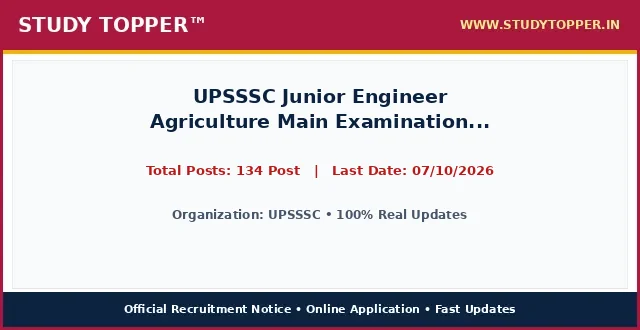
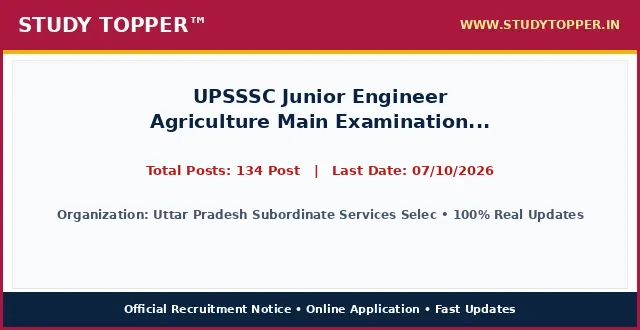
chore(lifecycle): daily auto-sort vacancies and update active dates

Changed region(s): [[0.0938, 0.6364, 0.9375, 0.6667]]

diff --git a/pages/upsssc-j-e-agriculture-august26.html b/pages/upsssc-j-e-agriculture-august26.html
@@ -987,12 +987,12 @@ ul.wp-block-latest-posts a:hover {
 <main class="site-main" id="main">
 <div class="gb-container gb-container-b39c368c">
 <h1 class="gb-headline gb-headline-e52a0102 gb-headline-text" style="font-size: 22px; font-weight: 700; color: #0000cd; text-align: left; margin: 8px 0 4px 0; line-height: 1.3; width: 100%; font-family: '-apple-system, BlinkMacSystemFont, 'Segoe UI', Roboto, 'Helvetica Neue', Arial, sans-serif', Times, serif, Hind, sans-serif;">UPSSSC Junior Engineer Agriculture Main Examination 2026 Apply Online for 134 Post</h1>
-<div class="gb-container gb-container-659bd175"><p style="color: #cd0808; font-weight: 700; font-size: 15px; margin: 2px 0 7px 0; text-align: left; font-family: '-apple-system, BlinkMacSystemFont, 'Segoe UI', Roboto, 'Helvetica Neue', Arial, sans-serif', Times, serif, Hind, sans-serif;">Post Date: August 22, 2026 11:55 AM</p></div>
-<p class="gb-headline gb-headline-550ae316 short_Details gb-headline-text" style="width: 100%; max-width: 100%; font-size: 16.8px; line-height: 1.55; color: #000000; text-align: justify; text-justify: inter-word; margin: 8px 0 14px 0; display: block; font-family: '-apple-system, BlinkMacSystemFont, 'Segoe UI', Roboto, 'Helvetica Neue', Arial, sans-serif', Times, serif, Hind, sans-serif;"><strong style="color: #0000cd;">UPSSSC</strong> has officially published the recruitment notice <strong style="color: #cd0808;">UPSSSC Junior Engineer Agriculture Main Examination 2026 Apply Online for 134 Post</strong> under notification number Official Advt 2026. Online applications are invited for 134 Post across multiple departments and cadre positions. Interested candidates possessing the requisite educational qualifications and falling between 18 Years to 40 Years can complete their online registration before the application deadline of 07/10/2026. Applicants should read the eligibility criteria, category reservation rules, and exam scheme thoroughly before submitting applications.</p>
+<div class="gb-container gb-container-659bd175"><p style="color: #cd0808; font-weight: 700; font-size: 15px; margin: 2px 0 7px 0; text-align: left; font-family: '-apple-system, BlinkMacSystemFont, 'Segoe UI', Roboto, 'Helvetica Neue', Arial, sans-serif', Times, serif, Hind, sans-serif;">Post Date: August 22, 2026 01:08 PM</p></div>
+<p class="gb-headline gb-headline-550ae316 short_Details gb-headline-text" style="width: 100%; max-width: 100%; font-size: 16.8px; line-height: 1.55; color: #000000; text-align: justify; text-justify: inter-word; margin: 8px 0 14px 0; display: block; font-family: '-apple-system, BlinkMacSystemFont, 'Segoe UI', Roboto, 'Helvetica Neue', Arial, sans-serif', Times, serif, Hind, sans-serif;"><strong style="color: #0000cd;">Uttar Pradesh Subordinate Services Selection Commission (UPSSSC)</strong> has officially published the recruitment notice <strong style="color: #cd0808;">UPSSSC Junior Engineer Agriculture Main Examination 2026 Apply Online for 134 Post</strong> under notification number Official Notification 2026. Online applications are invited for 134 Post across multiple departments and cadre positions. Interested candidates possessing the requisite educational qualifications and falling between 18 Years to 40 Years can complete their online registration before the application deadline of 07/10/2026. Applicants should read the eligibility criteria, category reservation rules, and exam scheme thoroughly before submitting applications.</p>
 <div class="gb-container gb-container-9849916c"><div class="social-buttons-compact" style="display: flex; justify-content: flex-start; align-items: center; gap: 10px; margin: 10px 0 16px 0; width: 100%;"><a class="social-btn-compact wa" href="https://whatsapp.com/channel/0029Va9xyz" rel="noopener" style="background-color: #00d084; color: #ffffff; padding: 10px 18px; border-radius: 4px; text-decoration: none; font-weight: bold; font-size: 15.5px; display: inline-flex; align-items: center; justify-content: center; height: auto;" target="_blank">WhatsApp</a><a class="social-btn-compact tg" href="https://t.me/studytopperofficial" rel="noopener" style="background-color: #0088cc; color: #ffffff; padding: 10px 18px; border-radius: 4px; text-decoration: none; font-weight: bold; font-size: 15.5px; display: inline-flex; align-items: center; justify-content: center; height: auto;" target="_blank">Telegram</a></div></div>
 <div class="gb-container gb-container-f58e6ca1" style="border: 2px solid #5b032f; border-radius: 4px; overflow: hidden; margin: 15px 0 20px 0; background-color: #ffffff; width: 100%; box-sizing: border-box;">
 <h2 class="gb-headline gb-headline-2ca5a791 gb-headline-text" style="font-size: 16px; font-weight: 700; text-align: center; color: #ef0303; line-height: 1.3; padding: 6px 4px; margin: 0; background: #ffffff; font-family: '-apple-system, BlinkMacSystemFont, 'Segoe UI', Roboto, 'Helvetica Neue', Arial, sans-serif', Times, serif, Hind, sans-serif;">UPSSSC Junior Engineer Agriculture Main Examination 2026 Apply Online for 134 Post &ndash; Latest Details &amp; Updates</h2>
-<h3 class="gb-headline gb-headline-7d5f86e8 gb-headline-text" style="font-size: 16px; font-weight: 600; text-align: center; color: #009703; line-height: 1.25; margin: 0; padding: 2px 4px 6px 4px; background: #ffffff; font-family: '-apple-system, BlinkMacSystemFont, 'Segoe UI', Roboto, 'Helvetica Neue', Arial, sans-serif', Times, serif, Hind, sans-serif;">UPSSSC : Details &amp; Summary</h3>
+<h3 class="gb-headline gb-headline-7d5f86e8 gb-headline-text" style="font-size: 16px; font-weight: 600; text-align: center; color: #009703; line-height: 1.25; margin: 0; padding: 2px 4px 6px 4px; background: #ffffff; font-family: '-apple-system, BlinkMacSystemFont, 'Segoe UI', Roboto, 'Helvetica Neue', Arial, sans-serif', Times, serif, Hind, sans-serif;">Uttar Pradesh Subordinate Services Selection Commission (UPSSSC) : Details &amp; Summary</h3>
 <p class="gb-headline gb-headline-79adf169 gb-headline-text" style="margin: 0 0 6px 0; font-family: '-apple-system, BlinkMacSystemFont, 'Segoe UI', Roboto, 'Helvetica Neue', Arial, sans-serif', Times, serif, Hind, sans-serif; text-align: center; font-size: 18px; font-weight: 700;"><a href="/" style="color: #0000ff; text-decoration: underline;">StudyTopper.in</a></p>
 
 <style id="st-post-boxes-responsive-css">
@@ -1025,7 +1025,7 @@ ul.wp-block-latest-posts a:hover {
     <div style="background-color: #5b032f; color: #ffffff; padding: 8px 10px; font-size: 20px; font-weight: 700; text-align: center; font-family: '-apple-system, BlinkMacSystemFont, 'Segoe UI', Roboto, 'Helvetica Neue', Arial, sans-serif', Times, serif, Hind, sans-serif;">Important Dates</div>
     <div style="padding: 12px 14px; background-color: #ffffff;">
       <ul style="padding-left: 20px; margin: 0; list-style-type: disc; text-align: left; font-size: 14pt; line-height: 1.6; font-family: '-apple-system, BlinkMacSystemFont, 'Segoe UI', Roboto, 'Helvetica Neue', Arial, sans-serif', Times, serif, Hind, sans-serif;">
-        <li><span style="font-size: 14pt;">Application Begin : <strong>17/09/2026</strong></span></li><li><span style="font-size: 14pt;">Last Date for Apply Online : <span style="color: #ff0000;"><strong>07/10/2026</strong></span></span></li><li><span style="font-size: 14pt;">Pay Exam Fee Last Date : <span style="color: #ff0000;"><strong>07/10/2026</strong></span></span></li><li><span style="font-size: 14pt;">Form Correction Last Date : <span style="color: #ff0000;"><strong>14/10/2026</strong></span></span></li><li><span style="font-size: 14pt;">UPSSSC Junior Engineer Main Exam Date : <strong>As per Schedule</strong></span></li><li><span style="font-size: 14pt;">Admit Card Available : <strong>Before Exam</strong></span></li><li><span style="font-size: 14pt;">Candidate Read the Notification Before Apply the Recruitment Application Form in UPSSSC Junior Engineer Agriculture Mains Examination Advt. No. : <strong>19-Exam/2026 Recruitment 2026.</strong></span></li>
+        <li><span style="font-size: 14pt;">Application Begin : <strong>17/09/2026</strong></span></li><li><span style="font-size: 14pt;">Last Date for Apply Online : <span style="color: #ff0000;"><strong>07/10/2026</strong></span></span></li><li><span style="font-size: 14pt;">Pay Exam Fee Last Date : <span style="color: #ff0000;"><strong>07/10/2026</strong></span></span></li><li><span style="font-size: 14pt;">Form Correction Last Date : <span style="color: #ff0000;"><strong>14/10/2026</strong></span></span></li><li><span style="font-size: 14pt;">Exam City Available : <strong>Before Exam</strong></span></li><li><span style="font-size: 14pt;">Admit Card Available : <strong>Before Exam</strong></span></li>
       </ul>
     </div>
   </div>
@@ -1034,7 +1034,7 @@ ul.wp-block-latest-posts a:hover {
     <div style="background-color: #5b032f; color: #ffffff; padding: 8px 10px; font-size: 20px; font-weight: 700; text-align: center; font-family: '-apple-system, BlinkMacSystemFont, 'Segoe UI', Roboto, 'Helvetica Neue', Arial, sans-serif', Times, serif, Hind, sans-serif;">Application Fee</div>
     <div style="padding: 12px 14px; background-color: #ffffff;">
       <ul style="padding-left: 20px; margin: 0; list-style-type: disc; text-align: left; font-size: 14pt; line-height: 1.6; font-family: '-apple-system, BlinkMacSystemFont, 'Segoe UI', Roboto, 'Helvetica Neue', Arial, sans-serif', Times, serif, Hind, sans-serif;">
-        <li><span style="font-size: 14pt;">General (UR) / OBC / EWS : <strong>25/-</strong></span></li><li><span style="font-size: 14pt;">SC / ST : <strong>25/-</strong></span></li><li><span style="font-size: 14pt;">PH (Divyang) : <strong>25/-</strong></span></li><li><span style="font-size: 14pt;">Candidates can apply online through the official recruitment link available on SarkariResult.com (Since 2012) – Official Website of Sarkari Result® UPSSSC Veterinary Pharmacist Online Form 2026 | Advt. No. : <strong>18-Exam/2026.</strong></span></li>
+        <li><span style="font-size: 14pt;">General (UR) / OBC / EWS : <strong>25/-</strong></span></li><li><span style="font-size: 14pt;">SC / ST : <strong>25/-</strong></span></li><li><span style="font-size: 14pt;">PH (Divyang) : <strong>25/-</strong></span></li><li><span style="font-size: 14pt;">Payment Mode : <strong>Pay the Examination Fee Through UPI, Debit Card, Credit Card and Net Banking Mode Only.</strong></span></li>
       </ul>
       <div style="margin-top: 10px; font-size: 14pt; line-height: 1.5; color: #000000; border-top: 1px dashed #ccc; padding-top: 8px; font-family: '-apple-system, BlinkMacSystemFont, 'Segoe UI', Roboto, 'Helvetica Neue', Arial, sans-serif', Times, serif, Hind, sans-serif;">
         <strong>Mode of Payment / Access:</strong> Online via Net Banking, Debit Card, Credit Card, UPI or Free Candidate Portal.
@@ -1047,10 +1047,10 @@ ul.wp-block-latest-posts a:hover {
 <div class="st-grid-row" style="display: flex; flex-wrap: wrap; width: 100%; border-top: 2px solid #5b032f; margin: 0; padding: 0; box-sizing: border-box;">
   <!-- Left Col: Age Limits -->
   <div class="st-col-half st-col-border-right" style="box-sizing: border-box; vertical-align: top;">
-    <div style="background-color: #046132; color: #ffffff; padding: 8px 10px; font-size: 17px; font-weight: 700; text-align: center; font-family: '-apple-system, BlinkMacSystemFont, 'Segoe UI', Roboto, 'Helvetica Neue', Arial, sans-serif', Times, serif, Hind, sans-serif;">UPSSSC : Age Limits As On 01 August 2026</div>
+    <div style="background-color: #046132; color: #ffffff; padding: 8px 10px; font-size: 17px; font-weight: 700; text-align: center; font-family: '-apple-system, BlinkMacSystemFont, 'Segoe UI', Roboto, 'Helvetica Neue', Arial, sans-serif', Times, serif, Hind, sans-serif;">Uttar Pradesh Subordinate Services Selection Commission (UPSSSC) : Age Limits As On 01/07/2026</div>
     <div style="padding: 12px 14px; background-color: #ffffff;">
       <ul style="padding-left: 20px; margin: 0; list-style-type: disc; text-align: left; font-size: 14pt; line-height: 1.6; font-family: '-apple-system, BlinkMacSystemFont, 'Segoe UI', Roboto, 'Helvetica Neue', Arial, sans-serif', Times, serif, Hind, sans-serif;">
-        <li><span style="font-size: 14pt;">Minimum Age : <strong>18 Years</strong></span></li><li><span style="font-size: 14pt;">Maximum Age : <strong>40 Years</strong></span></li><li><span style="font-size: 14pt;">Age Relaxation Extra as per UPSSSC Junior Engineer Agriculture Mains Main Recruitment Rules Advt. No. 19 : <strong>Exam/2026.</strong></span></li>
+        <li><span style="font-size: 14pt;">Minimum Age : <strong>18 Years</strong></span></li><li><span style="font-size: 14pt;">Maximum Age : <strong>40 Years</strong></span></li><li><span style="font-size: 14pt;">Age Relaxation : <strong>Age Relaxation Extra as per UPSSSC Junior Engineer Agriculture Mains Main Recruitment Rules Advt. No. 19-Exam/2026.</strong></span></li>
       </ul>
     </div>
   </div>
@@ -1070,7 +1070,19 @@ ul.wp-block-latest-posts a:hover {
 <div class="gb-container gb-container-ec1f6e4c">
 <h2 class="gb-headline gb-headline-c7683bda gb-headline-text" style="font-size: 24px; font-weight: 800; text-align: center; color: #ef0303; line-height: 1.35; margin: 20px 0 12px 0; padding: 6px 4px; font-family: '-apple-system, BlinkMacSystemFont, 'Segoe UI', Roboto, 'Helvetica Neue', Arial, sans-serif', Times, serif, Hind, sans-serif;">UPSSSC Junior Engineer Agriculture Main Examination 2026 Apply Online for 134 Post : Key Overview &amp; Matrix</h2>
 <div class="gb-headline gb-headline-60ccea19 gb-headline-text">
-
+<table style="border-collapse: collapse; width: 100%; height: 150px;">
+<tbody>
+<tr style="height: 25px;">
+<td colspan="2" style="width: 50%; text-align: center; height: 25px;"><span style="background-color: #000080; color: #ffffff; font-size: 14pt;"><strong> Uttar Pradesh Subordinate Services Selection Commission (UPSSSC) : Category Wise Vacancy Details </strong></span></td>
+</tr>
+<tr style="height: 25px;">
+<td style="width: 50%; height: 25px; text-align: center;"><span style="font-size: 14pt;"><strong>Category / Particulars</strong></span></td>
+<td style="width: 50%; height: 25px; text-align: center;"><span style="font-size: 14pt;"><strong>Count / Status</strong></span></td>
+</tr>
+<tr><td style="text-align: center;">Total Post</td><td style="text-align: center; font-weight: bold; color: #ff0000;">134</td></tr><tr><td style="text-align: center;">UPSSSC Junior Engineer Agriculture Main Examination Eligibility</td><td style="text-align: center; font-weight: normal; color: inherit;">UPSSSC PET 2025 PET Score Card High School Passed from any Recognized Board Institute in India. 3-Year Diploma in Agricultural Engineering from any Recognized Board / Institute in India. Knowledge of Hindi Devanagari Lipi More Details Read the Notification.</td></tr><tr><td style="text-align: center;">UR</td><td style="text-align: center; font-weight: normal; color: inherit;">54</td></tr><tr><td style="text-align: center;">EWS</td><td style="text-align: center; font-weight: normal; color: inherit;">13</td></tr><tr><td style="text-align: center;">OBC</td><td style="text-align: center; font-weight: normal; color: inherit;">43</td></tr><tr><td style="text-align: center;">SC</td><td style="text-align: center; font-weight: normal; color: inherit;">23</td></tr><tr><td style="text-align: center;">ST</td><td style="text-align: center; font-weight: normal; color: inherit;">01</td></tr><tr><td style="text-align: center;">Total</td><td style="text-align: center; font-weight: bold; color: #ff0000;">134</td></tr>
+</tbody>
+</table>
+<p>&nbsp;</p>
 <table style="border-collapse: collapse; width: 100%;">
 <tbody>
 <tr>
@@ -1079,9 +1091,9 @@ ul.wp-block-latest-posts a:hover {
 <th style="background-color: #f53c00; color: #ffffff; padding: 6px 10px; text-align: center; border: 1px solid #d35400; font-size: 15px; font-weight: 700; font-family: '-apple-system, BlinkMacSystemFont, 'Segoe UI', Roboto, 'Helvetica Neue', Arial, sans-serif', Times, serif, Hind, sans-serif;">Eligibility Criteria</th>
 </tr>
 <tr>
-<td style="padding: 8px; border: 1px solid #ddd; font-weight: bold;">UPSSSC Recruitment</td>
-<td style="padding: 8px; border: 1px solid #ddd; text-align: center; font-weight: bold;">134 Post</td>
-<td style="padding: 8px; border: 1px solid #ddd;">Please refer to the official notification linked below for detailed educational qualifications.</td>
+<td style="padding: 8px; border: 1px solid #ddd; font-weight: bold;">Junior Engineer Agriculture</td>
+<td style="padding: 8px; border: 1px solid #ddd; text-align: center; font-weight: bold;">134</td>
+<td style="padding: 8px; border: 1px solid #ddd;">UPSSSC PET 2025 PET Score Card High School Passed from any Recognized Board Institute in India. 3-Year Diploma in Agricultural Engineering from any Recognized Board / Institute in India. Knowledge of Hindi Devanagari Lipi More Details Read the Notification.</td>
 </tr>
 </tbody>
 </table>
@@ -1093,10 +1105,10 @@ ul.wp-block-latest-posts a:hover {
 <table style="border-collapse: collapse; width: 100%;">
 <tbody>
 <tr>
-<td style="width: 100%; text-align: center;"><span style="background-color: #000080; color: #ffffff; font-size: 14pt; font-weight: bold; display: block; padding: 6px;"> How to Fill UPSSSC Online Application Form </span></td>
+<td style="width: 100%; text-align: center;"><span style="background-color: #000080; color: #ffffff; font-size: 14pt; font-weight: bold; display: block; padding: 6px;"> How to Fill Uttar Pradesh Subordinate Services Selection Commission (UPSSSC) Online Application Form </span></td>
 </tr>
 <tr>
-<td style="width: 100%;"><ol style="margin:0; padding-left:18px; text-align: left !important; list-style-position: outside !important"><li style="margin-bottom:6px; text-align: left !important;">Read the official recruitment notification carefully before applying.</li><li style="margin-bottom:6px; text-align: left !important;">Keep all basic documents ready: ID Proof, Address Details, Basic Details.</li><li style="margin-bottom:6px; text-align: left !important;">Ready your scanned documents like Photo, Signature, ID Proof, etc.</li><li style="margin-bottom:6px; text-align: left !important;">Click on the 'Apply Online' link given in the Important Links section below.</li><li style="margin-bottom:6px; text-align: left !important;">Fill out all the columns in the application form accurately.</li><li style="margin-bottom:6px; text-align: left !important;">Pay the required application fee if applicable.</li><li style="margin-bottom:6px; text-align: left !important;">Take a printout of the final submitted application form.</li><li style="margin-bottom:6px; text-align: left !important;">Resize candidate photograph and signature accurately using the <a href="https://indtool.in" rel="noopener" target="_blank"><strong>StudyTopper Tools</strong></a> image resizer at indtool.in.</li></ol></td>
+<td style="width: 100%;"><ol style="margin:0; padding-left:18px; text-align: left !important; list-style-position: outside !important"><li style="margin-bottom:6px; text-align: left !important;">Uttar Pradesh Subordinate Service Selection Commission (UPSSSC) Main Recruitment for Junior Engineer JE Agricutlrue Candidate Can Apply Between</li><li style="margin-bottom:6px; text-align: left !important;">17/09/2026 to 07/10/2026</li><li style="margin-bottom:6px; text-align: left !important;">Candidate Read the Notification Before Apply the Recruitment Application Form in UPSSSC Junior Engineer Agriculture Mains Examination Advt. No.-19-Exam/2026 Recruitment 2026.</li><li style="margin-bottom:6px; text-align: left !important;">Kindly Check and Collect the All Document – Eligibility, ID Proof, Address Details, Basic Details.</li><li style="margin-bottom:6px; text-align: left !important;">Kindly Ready Scan Document Related to Recruitment Form – Photo, Sign, ID Proof, Etc.</li><li style="margin-bottom:6px; text-align: left !important;">Before Submit the Application Form Must Check the Preview and All Column Carefully.</li><li style="margin-bottom:6px; text-align: left !important;">If Candidate Required to Paying the Application Fee Must Submit. If You have Not the Required Application Fees Your Form is Not Completed.</li><li style="margin-bottom:6px; text-align: left !important;">Take A Print Out of Final Submitted Form.</li><li style="margin-bottom:6px; text-align: left !important;">Resize candidate photograph and signature accurately using the <a href="https://indtool.in" rel="noopener" target="_blank"><strong>StudyTopper Tools</strong></a> image resizer at indtool.in.</li></ol></td>
 </tr>
 </tbody>
 </table>
@@ -1104,7 +1116,7 @@ ul.wp-block-latest-posts a:hover {
 <table style="border-collapse: collapse; width: 100%;">
 <tbody>
 <tr>
-<td style="width: 100%; text-align: center;"><span style="background-color: #000080; color: #ffffff; font-size: 14pt;"><strong><span style="color: #ffffff;"> UPSSSC Recruitment 2026 : Mode Of Selection </span></strong></span></td>
+<td style="width: 100%; text-align: center;"><span style="background-color: #000080; color: #ffffff; font-size: 14pt;"><strong><span style="color: #ffffff;"> Uttar Pradesh Subordinate Services Selection Commission (UPSSSC) Recruitment 2026 : Mode Of Selection </span></strong></span></td>
 </tr>
 <tr>
 <td style="width: 100%;">
@@ -1144,42 +1156,66 @@ ul.wp-block-latest-posts a:hover {
 
 <tr style="border-bottom: 1px solid #000000; background-color: #fff37a;">
 <td style="width: 50%; padding: 14px 16px; border-right: 1px solid #000000; text-align: center;">
-<span style="font-size: 19px; font-weight: 800; color: #000000; font-family: '-apple-system, BlinkMacSystemFont, 'Segoe UI', Roboto, 'Helvetica Neue', Arial, sans-serif', Times, serif, Hind, sans-serif;">Apply Online Link</span>
+<span style="font-size: 19px; font-weight: 800; color: #000000; font-family: '-apple-system, BlinkMacSystemFont, 'Segoe UI', Roboto, 'Helvetica Neue', Arial, sans-serif', Times, serif, Hind, sans-serif;">Sarkari Result Android App</span>
 </td>
 <td style="width: 50%; padding: 14px 16px; text-align: center;">
-<span style="font-size: 20px; font-weight: 800; font-family: '-apple-system, BlinkMacSystemFont, 'Segoe UI', Roboto, 'Helvetica Neue', Arial, sans-serif', Times, serif, Hind, sans-serif;"><a href="https://upsssc.gov.in/" aria-label="Click Here for Apply Online Link - UPSSSC Junior Engineer Agriculture Main Examination 2026 Apply Online for 134 Post" rel="noopener noreferrer" style="color: #0000ef; font-weight: 800; text-decoration: none;" target="_blank">Click Here</a></span>
+<span style="font-size: 20px; font-weight: 800; font-family: '-apple-system, BlinkMacSystemFont, 'Segoe UI', Roboto, 'Helvetica Neue', Arial, sans-serif', Times, serif, Hind, sans-serif;"><a href="https://itunes.apple.com/us/app/sarkari-result/id1051363935?ls=1&mt=8" aria-label="Click Here for Sarkari Result Android App - UPSSSC Junior Engineer Agriculture Main Examination 2026 Apply Online for 134 Post" rel="noopener noreferrer" style="color: #0000ef; font-weight: 800; text-decoration: none;" target="_blank">Click Here</a></span>
 </td>
 </tr>
 <tr style="border-bottom: 1px solid #000000; background-color: #fff37a;">
 <td style="width: 50%; padding: 14px 16px; border-right: 1px solid #000000; text-align: center;">
-<span style="font-size: 19px; font-weight: 800; color: #000000; font-family: '-apple-system, BlinkMacSystemFont, 'Segoe UI', Roboto, 'Helvetica Neue', Arial, sans-serif', Times, serif, Hind, sans-serif;">Check Official Notification</span>
+<span style="font-size: 19px; font-weight: 800; color: #000000; font-family: '-apple-system, BlinkMacSystemFont, 'Segoe UI', Roboto, 'Helvetica Neue', Arial, sans-serif', Times, serif, Hind, sans-serif;">Apply Online</span>
 </td>
 <td style="width: 50%; padding: 14px 16px; text-align: center;">
-<span style="font-size: 20px; font-weight: 800; font-family: '-apple-system, BlinkMacSystemFont, 'Segoe UI', Roboto, 'Helvetica Neue', Arial, sans-serif', Times, serif, Hind, sans-serif;"><a href="https://upsssc.gov.in/" aria-label="Click Here for Check Official Notification - UPSSSC Junior Engineer Agriculture Main Examination 2026 Apply Online for 134 Post" rel="noopener noreferrer" style="color: #0000ef; font-weight: 800; text-decoration: none;" target="_blank">Click Here</a></span>
+<span style="font-size: 20px; font-weight: 800; font-family: '-apple-system, BlinkMacSystemFont, 'Segoe UI', Roboto, 'Helvetica Neue', Arial, sans-serif', Times, serif, Hind, sans-serif;"><a href="https://upsssc.gov.in/" aria-label="Click Here for Apply Online - UPSSSC Junior Engineer Agriculture Main Examination 2026 Apply Online for 134 Post" rel="noopener noreferrer" style="color: #0000ef; font-weight: 800; text-decoration: none;" target="_blank">Click Here</a></span>
 </td>
 </tr>
 <tr style="border-bottom: 1px solid #000000; background-color: #fff37a;">
 <td style="width: 50%; padding: 14px 16px; border-right: 1px solid #000000; text-align: center;">
-<span style="font-size: 19px; font-weight: 800; color: #000000; font-family: '-apple-system, BlinkMacSystemFont, 'Segoe UI', Roboto, 'Helvetica Neue', Arial, sans-serif', Times, serif, Hind, sans-serif;">Photo / Sign Resizer Tool</span>
+<span style="font-size: 19px; font-weight: 800; color: #000000; font-family: '-apple-system, BlinkMacSystemFont, 'Segoe UI', Roboto, 'Helvetica Neue', Arial, sans-serif', Times, serif, Hind, sans-serif;">Download Notification</span>
 </td>
 <td style="width: 50%; padding: 14px 16px; text-align: center;">
-<span style="font-size: 20px; font-weight: 800; font-family: '-apple-system, BlinkMacSystemFont, 'Segoe UI', Roboto, 'Helvetica Neue', Arial, sans-serif', Times, serif, Hind, sans-serif;"><a href="https://indtool.in" aria-label="Click Here for Photo / Sign Resizer Tool - UPSSSC Junior Engineer Agriculture Main Examination 2026 Apply Online for 134 Post" rel="noopener noreferrer" style="color: #0000ef; font-weight: 800; text-decoration: none;" target="_blank">Click Here</a></span>
+<span style="font-size: 20px; font-weight: 800; font-family: '-apple-system, BlinkMacSystemFont, 'Segoe UI', Roboto, 'Helvetica Neue', Arial, sans-serif', Times, serif, Hind, sans-serif;"><a href="https://doc.sarkariresults.org.in/UPSSSC_19-Exam_2026_Notification.pdf" aria-label="Click Here for Download Notification - UPSSSC Junior Engineer Agriculture Main Examination 2026 Apply Online for 134 Post" rel="noopener noreferrer" style="color: #0000ef; font-weight: 800; text-decoration: none;" target="_blank">Click Here</a></span>
 </td>
 </tr>
 <tr style="border-bottom: 1px solid #000000; background-color: #fff37a;">
+<td style="width: 50%; padding: 14px 16px; border-right: 1px solid #000000; text-align: center;">
+<span style="font-size: 19px; font-weight: 800; color: #000000; font-family: '-apple-system, BlinkMacSystemFont, 'Segoe UI', Roboto, 'Helvetica Neue', Arial, sans-serif', Times, serif, Hind, sans-serif;">Signature Resizer, PDF Compress, Age Calculator and More Tools</span>
+</td>
+<td style="width: 50%; padding: 14px 16px; text-align: center;">
+<span style="font-size: 20px; font-weight: 800; font-family: '-apple-system, BlinkMacSystemFont, 'Segoe UI', Roboto, 'Helvetica Neue', Arial, sans-serif', Times, serif, Hind, sans-serif;"><a href="https://sarkariresult.tools/" aria-label="Click Here for Signature Resizer, PDF Compress, Age Calculator and More Tools - UPSSSC Junior Engineer Agriculture Main Examination 2026 Apply Online for 134 Post" rel="noopener noreferrer" style="color: #0000ef; font-weight: 800; text-decoration: none;" target="_blank">Click Here</a></span>
+</td>
+</tr>
+<tr style="border-bottom: 1px solid #000000; background-color: #fff37a;">
+<td style="width: 50%; padding: 14px 16px; border-right: 1px solid #000000; text-align: center;">
+<span style="font-size: 19px; font-weight: 800; color: #000000; font-family: '-apple-system, BlinkMacSystemFont, 'Segoe UI', Roboto, 'Helvetica Neue', Arial, sans-serif', Times, serif, Hind, sans-serif;">Join Sarkari Result Channel</span>
+</td>
+<td style="width: 50%; padding: 14px 16px; text-align: center;">
+<span style="font-size: 20px; font-weight: 800; font-family: '-apple-system, BlinkMacSystemFont, 'Segoe UI', Roboto, 'Helvetica Neue', Arial, sans-serif', Times, serif, Hind, sans-serif;"><a href="https://t.me/SarkariResult2012" aria-label="Click Here for Join Sarkari Result Channel - UPSSSC Junior Engineer Agriculture Main Examination 2026 Apply Online for 134 Post" rel="noopener noreferrer" style="color: #0000ef; font-weight: 800; text-decoration: none;" target="_blank">Click Here</a></span>
+</td>
+</tr>
+<tr style="border-bottom: 1px solid #000000; background-color: #fff37a;">
+<td style="width: 50%; padding: 14px 16px; border-right: 1px solid #000000; text-align: center;">
+<span style="font-size: 19px; font-weight: 800; color: #000000; font-family: '-apple-system, BlinkMacSystemFont, 'Segoe UI', Roboto, 'Helvetica Neue', Arial, sans-serif', Times, serif, Hind, sans-serif;">Join Sarkari Result Channel</span>
+</td>
+<td style="width: 50%; padding: 14px 16px; text-align: center;">
+<span style="font-size: 20px; font-weight: 800; font-family: '-apple-system, BlinkMacSystemFont, 'Segoe UI', Roboto, 'Helvetica Neue', Arial, sans-serif', Times, serif, Hind, sans-serif;"><a href="https://whatsapp.com/channel/0029Va5IElwBlHpVBd6i5a18" aria-label="Click Here for Join Sarkari Result Channel - UPSSSC Junior Engineer Agriculture Main Examination 2026 Apply Online for 134 Post" rel="noopener noreferrer" style="color: #0000ef; font-weight: 800; text-decoration: none;" target="_blank">Click Here</a></span>
+</td>
+</tr>
+<tr style="border-bottom: 1px solid #000000; background-color: #fff37a;">
+<td style="width: 50%; padding: 14px 16px; border-right: 1px solid #000000; text-align: center;">
+<span style="font-size: 19px; font-weight: 800; color: #000000; font-family: '-apple-system, BlinkMacSystemFont, 'Segoe UI', Roboto, 'Helvetica Neue', Arial, sans-serif', Times, serif, Hind, sans-serif;">Official Website</span>
+</td>
+<td style="width: 50%; padding: 14px 16px; text-align: center;">
+<span style="font-size: 20px; font-weight: 800; font-family: '-apple-system, BlinkMacSystemFont, 'Segoe UI', Roboto, 'Helvetica Neue', Arial, sans-serif', Times, serif, Hind, sans-serif;"><a href="https://upsssc.gov.in/" aria-label="Click Here for Official Website - UPSSSC Junior Engineer Agriculture Main Examination 2026 Apply Online for 134 Post" rel="noopener noreferrer" style="color: #0000ef; font-weight: 800; text-decoration: none;" target="_blank">Click Here</a></span>
+</td>
+</tr>
+<tr style=" background-color: #fff37a;">
 <td style="width: 50%; padding: 14px 16px; border-right: 1px solid #000000; text-align: center;">
 <span style="font-size: 19px; font-weight: 800; color: #000000; font-family: '-apple-system, BlinkMacSystemFont, 'Segoe UI', Roboto, 'Helvetica Neue', Arial, sans-serif', Times, serif, Hind, sans-serif;">Check Sarkari Result</span>
 </td>
 <td style="width: 50%; padding: 14px 16px; text-align: center;">
 <span style="font-size: 20px; font-weight: 800; font-family: '-apple-system, BlinkMacSystemFont, 'Segoe UI', Roboto, 'Helvetica Neue', Arial, sans-serif', Times, serif, Hind, sans-serif;"><a href="/" aria-label="Click Here for Check Sarkari Result - UPSSSC Junior Engineer Agriculture Main Examination 2026 Apply Online for 134 Post" rel="noopener noreferrer" style="color: #0000ef; font-weight: 800; text-decoration: none;" >Click Here</a></span>
-</td>
-</tr>
-<tr style=" background-color: #fff37a;">
-<td style="width: 50%; padding: 14px 16px; border-right: 1px solid #000000; text-align: center;">
-<span style="font-size: 19px; font-weight: 800; color: #000000; font-family: '-apple-system, BlinkMacSystemFont, 'Segoe UI', Roboto, 'Helvetica Neue', Arial, sans-serif', Times, serif, Hind, sans-serif;">UPSSSC Website</span>
-</td>
-<td style="width: 50%; padding: 14px 16px; text-align: center;">
-<span style="font-size: 20px; font-weight: 800; font-family: '-apple-system, BlinkMacSystemFont, 'Segoe UI', Roboto, 'Helvetica Neue', Arial, sans-serif', Times, serif, Hind, sans-serif;"><a href="https://upsssc.gov.in/" aria-label="Click Here for UPSSSC Website - UPSSSC Junior Engineer Agriculture Main Examination 2026 Apply Online for 134 Post" rel="noopener noreferrer" style="color: #0000ef; font-weight: 800; text-decoration: none;" target="_blank">Click Here</a></span>
 </td>
 </tr>
 </tbody>
@@ -1193,7 +1229,7 @@ ul.wp-block-latest-posts a:hover {
   <div style="font-size: 14.5px; line-height: 1.65; color: #222222;">
     <p style="margin: 0 0 4px 0;"><strong style="color: #000080;">Q1. What is the last date to apply for UPSSSC Junior Engineer Agriculture Main Examination 2026 Apply Online for 134 Post?</strong></p>
 <p style="margin: 0 0 16px 0; color: #333333; line-height: 1.6;">Ans. The last date for online submission of application is 07/10/2026.</p><p style="margin: 0 0 4px 0;"><strong style="color: #000080;">Q2. What is the age limit for UPSSSC Junior Engineer Agriculture Main Examination 2026 Apply Online for 134 Post?</strong></p>
-<p style="margin: 0 0 16px 0; color: #333333; line-height: 1.6;">Ans. Candidate age should generally be between 18 Years and 40 Years as on 01 August 2026. Age relaxation is applicable per rules.</p><p style="margin: 0 0 4px 0;"><strong style="color: #000080;">Q3. What is the application fee for UPSSSC Junior Engineer Agriculture Main Examination 2026 Apply Online for 134 Post?</strong></p>
+<p style="margin: 0 0 16px 0; color: #333333; line-height: 1.6;">Ans. Candidate age should generally be between 18 Years and 40 Years as on 01/07/2026. Age relaxation is applicable per rules.</p><p style="margin: 0 0 4px 0;"><strong style="color: #000080;">Q3. What is the application fee for UPSSSC Junior Engineer Agriculture Main Examination 2026 Apply Online for 134 Post?</strong></p>
 <p style="margin: 0 0 16px 0; color: #333333; line-height: 1.6;">Ans. Application fee varies by category (e.g., General/OBC: Rs. 100/-, SC/ST/PwD: Exempted).</p><p style="margin: 0 0 4px 0;"><strong style="color: #000080;">Q4. How many total posts are available in UPSSSC Junior Engineer Agriculture Main Examination 2026 Apply Online for 134 Post?</strong></p>
 <p style="margin: 0 0 16px 0; color: #333333; line-height: 1.6;">Ans. A total of 134 Post have been officially announced for this recruitment drive.</p><p style="margin: 0 0 4px 0;"><strong style="color: #000080;">Q5. How can I apply online for UPSSSC Junior Engineer Agriculture Main Examination 2026 Apply Online for 134 Post?</strong></p>
 <p style="margin: 0 0 0 0; color: #333333; line-height: 1.6;">Ans. Eligible candidates can click the 'Apply Online' link in the Important Links table, register, fill details, resize photo/signature via indtool.in, and submit before 07/10/2026.</p>
